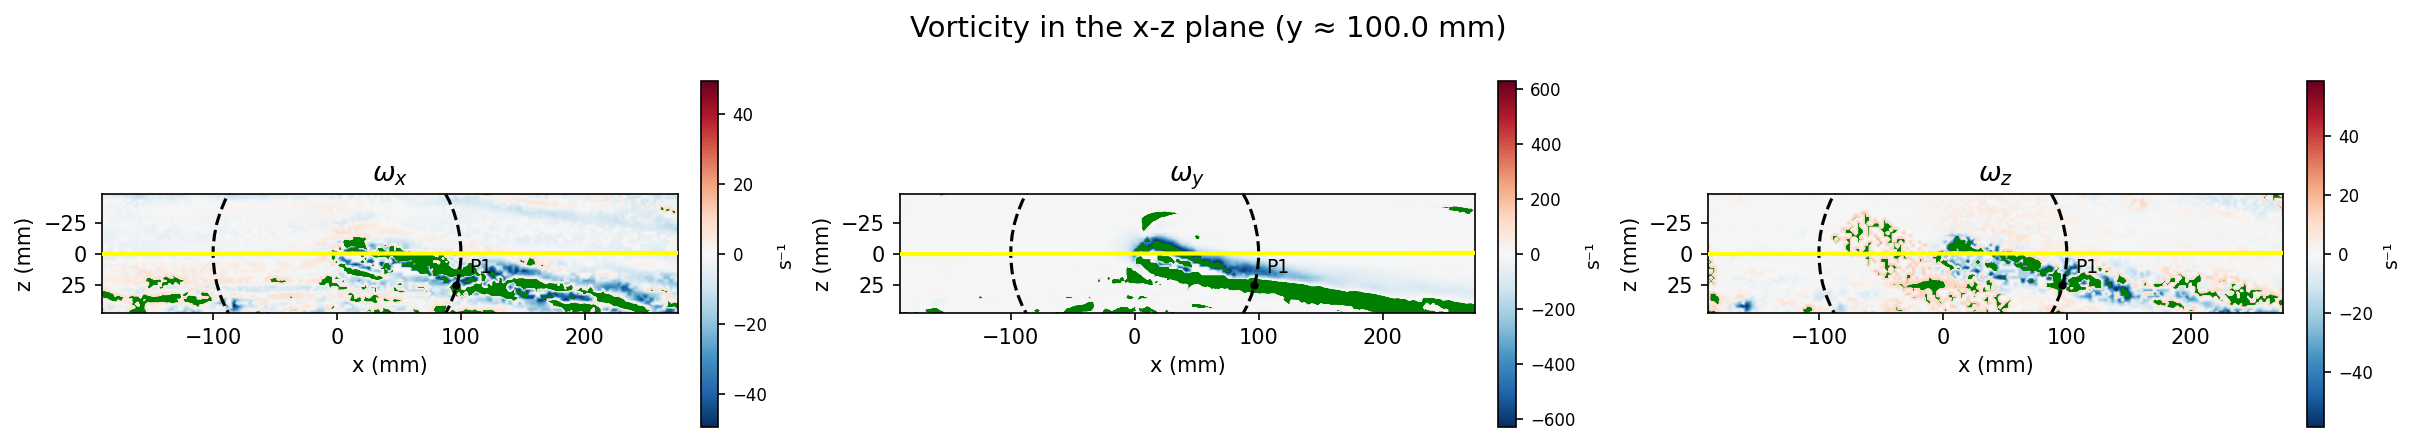
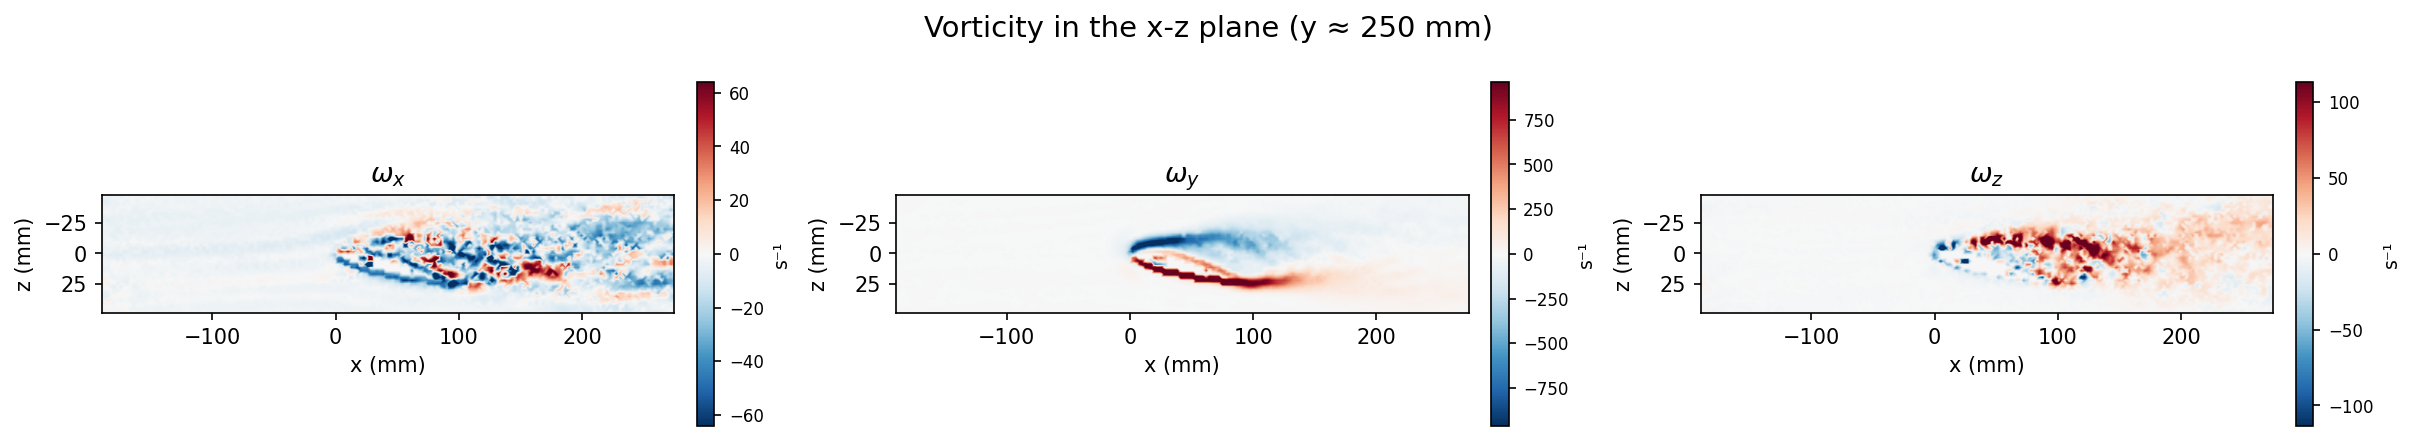
refined vorticity visualization

diff --git a/vorticity/vorticityvisualization.py b/vorticity/vorticityvisualization.py
@@ -3,136 +3,66 @@ import numpy as np
 import matplotlib.pyplot as plt
 from scipy.interpolate import griddata
 
-# 1. FLOW ANGLE ANALYSIS
+#  CONFIGURATION
 
-# Load velocity data
-try:
-    df_vel = pd.read_csv("Dataset NACA0015 Velocity and Standard deviation.csv", skipinitialspace=True)
-    df_vel.columns = df_vel.columns.str.strip()
-    
-    # Define exact column names based on your previous message
-    col_x_vel = 'x [mm]'
-    col_y_vel = 'y [mm]'
-    col_u = 'Velocity u [m/s]'
-    col_w = 'Velocity w [m/s]'
+# ── Vorticity dataset
+GRAD_CSV      = "gradient_results.csv"
+VORT_Y_TARGET = 250              # mm — y-slice to plot
+VORT_Z_MIN    = -50              # mm
+VORT_Z_MAX    = 50               # mm
 
-    y_target = 100.0
-    calculated_slope = 0.2679492  # Default fallback slope
+#  LOAD DATA
 
-    # Filter for y ~ 300 mm
-    df_vel_y = df_vel[np.abs(df_vel[col_y_vel] - y_target) <= 5.0]
-    
-    # Filter for the x range [-180, -50]
-    df_vel_x_range = df_vel_y[(df_vel_y[col_x_vel] >= -180) & (df_vel_y[col_x_vel] <= 0)]
+df = pd.read_csv(GRAD_CSV, skipinitialspace=True)
+df.columns = df.columns.str.strip()
 
-    if not df_vel_x_range.empty:
-        # Target the middle of the range
-        x_target = -187
-        # Find the actual x value closest to our target in the velocity mesh
-        actual_x = df_vel_x_range.iloc[(df_vel_x_range[col_x_vel] - x_target).abs().argsort()[:1]][col_x_vel].values[0]
-        
-        # Slice for that specific x location
-        df_vel_slice = df_vel_x_range[df_vel_x_range[col_x_vel] == actual_x]
-        
-        # Calculate averages
-        vx_avg = np.nanmean(df_vel_slice[col_u].values)
-        vz_avg = np.nanmean(df_vel_slice[col_w].values)
-        
-        # Calculate angle and slope
-        angle_rad = np.arctan2(vz_avg, vx_avg)
-        angle_deg = np.degrees(angle_rad)
-        calculated_slope = np.tan(angle_rad)
-        
-        print("-" * 50)
-        print(f"Flow Analysis at y ≈ {y_target} mm, x = {actual_x} mm")
-        print(f"Using file: 'Dataset NACA0015 Velocity and Standard deviation.csv'")
-        print("-" * 50)
-        print(f"Average Vx (u) : {vx_avg:.4f} m/s")
-        print(f"Average Vz (w) : {vz_avg:.4f} m/s")
-        print(f"Flow Angle     : {angle_deg:.2f}°")
-        print(f"Line Slope     : {calculated_slope:.6f}")
-        print("-" * 50)
-    else:
-        print("Notice: No data in x range [-180, -50] found in the velocity file.")
+col_x = 'x' if 'x' in df.columns else 'x [mm]'
+col_y = 'y' if 'y' in df.columns else 'y [mm]'
+col_z = 'z' if 'z' in df.columns else 'z [mm]'
 
-except FileNotFoundError:
-    print("Notice: 'Dataset NACA0015 Velocity and Standard deviation.csv' not found. Using default slope.")
-    calculated_slope = 0.2679492
+df_plot = df[np.abs(df[col_y] - VORT_Y_TARGET) <= 5.0]
+df_plot = df_plot[(df_plot[col_z] >= VORT_Z_MIN) & (df_plot[col_z] <= VORT_Z_MAX)]
 
+x = df_plot[col_x].values
+z = df_plot[col_z].values
 
-# 2. VORTICITY PLOTTING (Using the Gradient Dataset)
+# =============================================================================
+#  BUILD FIGURE
+# =============================================================================
 
-# Load gradient data
-df_grad = pd.read_csv("gradient_results.csv", skipinitialspace=True)
-df_grad.columns = df_grad.columns.str.strip()
-
-# Determine x, y, z column names in the gradient file
-col_x_grad = 'x' if 'x' in df_grad.columns else 'x [mm]'
-col_y_grad = 'y' if 'y' in df_grad.columns else 'y [mm]'
-col_z_grad = 'z' if 'z' in df_grad.columns else 'z [mm]'
-
-y_target = 100.0
-
-# Slice the gradient dataset for plotting
-df_plot = df_grad[np.abs(df_grad[col_y_grad] - y_target) <= 5.0]
-df_plot = df_plot[(df_plot[col_z_grad] >= -50) & (df_plot[col_z_grad] <= 50)]
-
-x = df_plot[col_x_grad].values
-z = df_plot[col_z_grad].values
-
-# ── Optional Overlays ──────────────────────────────────────────────────────
-MARK_POINT = (96.3, 25.3)              # e.g. (120.0, -10.0) or None to disable
-MARK_LABEL = "P1"
-MARK_STYLE = dict(marker="o", color="black", markersize=3, zorder=5)
-
-# The slope is now strictly driven by the velocity dataset calculation
-LINE_SLOPE = calculated_slope        
-LINE_STYLE = dict(color="yellow", linestyle="-", linewidth=2, zorder=10)
-# ──────────────────────────────────────────────────────────────────────────
-
-# Compute aspect ratio of the data
 x_range = x.max() - x.min()
 z_range = z.max() - z.min()
-aspect = z_range / x_range
 
-subplot_width = 5
-subplot_height = subplot_width * aspect
-fig_width = subplot_width * 3 + 1
-fig_height = max(subplot_height, 3)
+subplot_width  = 5
+subplot_height = subplot_width * (z_range / x_range)
+fig_width      = subplot_width * 3 + 1
+fig_height     = max(subplot_height, 3)
 
-# Create a high-resolution regular grid
 xi = np.linspace(x.min(), x.max(), 800)
 zi = np.linspace(z.min(), z.max(), 400)
 Xi, Zi = np.meshgrid(xi, zi)
 
 fig, axes = plt.subplots(1, 3, figsize=(fig_width, fig_height),
                          constrained_layout=True)
-fig.suptitle(f"Vorticity in the x-z plane (y ≈ {y_target} mm)", fontsize=14)
+fig.suptitle(f"Vorticity in the x-z plane (y ≈ {VORT_Y_TARGET} mm)", fontsize=14)
 
-# Base colormap 
 cmap = plt.get_cmap("RdBu_r").copy()
 
-for ax, col, title in zip(axes,
-                           ["omega_x", "omega_y", "omega_z"],
-                           [r"$\omega_x$", r"$\omega_y$", r"$\omega_z$"]):
-    omega = df_plot[col].values
-
-    # Interpolate using the raw values first
+for ax, col, title in zip(
+    axes,
+    ["omega_x", "omega_y", "omega_z"],
+    [r"$\omega_x$", r"$\omega_y$", r"$\omega_z$"],
+):
+    omega  = df_plot[col].values
     p_low  = np.percentile(omega, 1)
-    p_high = np.percentile(omega, 90)
+    p_high = np.percentile(omega, 99)
 
     Oi = griddata((x, z), omega, (Xi, Zi), method="linear")
-
-    # Mask out-of-range values AFTER interpolation
-    Oi = np.ma.masked_where((Oi < p_low) | (Oi > p_high), Oi)
 
     vmin, vmax = p_low, p_high
     if vmin < 0 < vmax:
         vabs = max(abs(vmin), abs(vmax))
         vmin, vmax = -vabs, vabs
-
-    # Set the background color to green so transparent/masked areas show up green
-    ax.set_facecolor("green")
 
     im = ax.pcolormesh(Xi, Zi, Oi, cmap=cmap, vmin=vmin, vmax=vmax,
                        shading="gouraud")
@@ -141,41 +71,10 @@ for ax, col, title in zip(axes,
     cbar.ax.tick_params(labelsize=8)
     cbar.set_label("s⁻¹", fontsize=9)
 
-    # ── Draw the 10 cm (100 mm) circle ──────────────────────────────────────
-    circle = plt.Circle((0, 0), radius=100, edgecolor='black', facecolor='none', 
-                        linewidth=1.5, linestyle='--', zorder=10)
-    ax.add_patch(circle)
-    # ────────────────────────────────────────────────────────────────────────
-
-    # ── Draw the adjustable slope line ──────────────────────────────────────
-    line_x = np.array([x.min(), x.max()])
-    line_z = LINE_SLOPE * line_x
-    ax.plot(line_x, line_z, **LINE_STYLE)
-    # ────────────────────────────────────────────────────────────────────────
-
-    # ── Draw the optional point ────────────────────────────────────────────
-    if MARK_POINT is not None:
-        px, pz = MARK_POINT
-        ax.plot(px, pz, **MARK_STYLE)
-        if MARK_LABEL:
-            ax.annotate(
-                MARK_LABEL,
-                xy=(px, pz),
-                xytext=(6, 6),
-                textcoords="offset points",
-                fontsize=9,
-                color=MARK_STYLE["color"],
-                zorder=6,
-            )
-    # ──────────────────────────────────────────────────────────────────────
-
     ax.set_title(title, fontsize=13)
     ax.set_xlabel("x (mm)")
     ax.set_ylabel("z (mm)")
-    
-    # Enforce strict limits so the line doesn't stretch the plot vertically
     ax.set_ylim(z.min(), z.max())
-    
     ax.invert_yaxis()
     ax.set_aspect("equal")
 